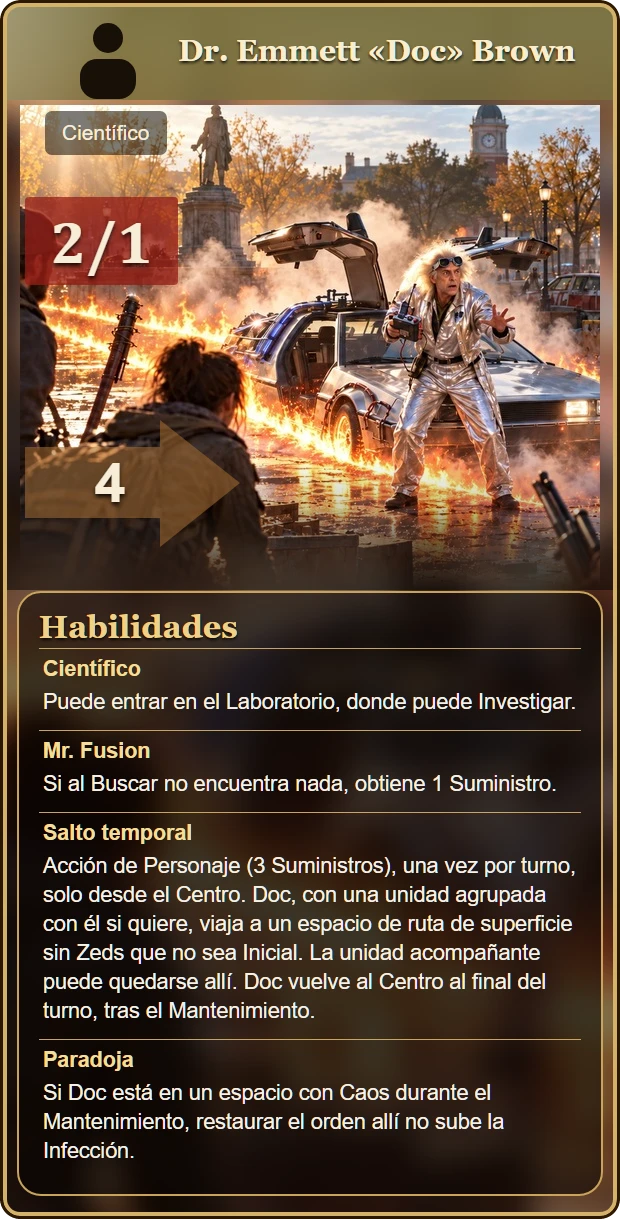
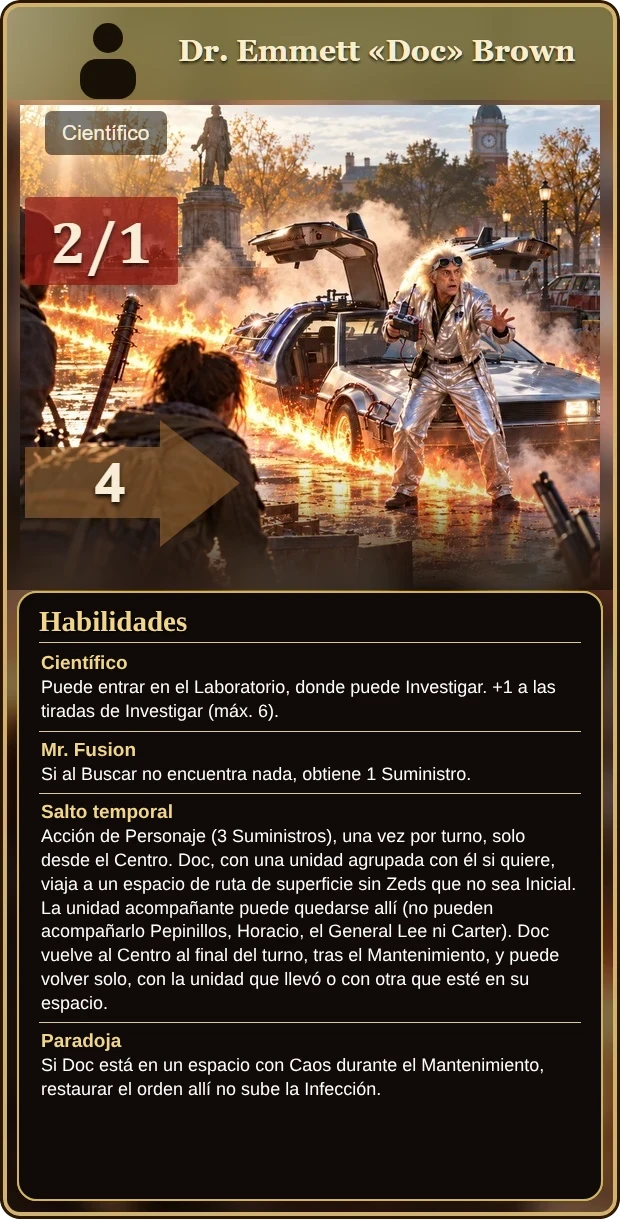
Carta de Doc Brown (arte alternativo): texto de Científico con el +1 a Investigar
Claude-Session: https://claude.ai/code/session_01KmRiLam16qxK6v4ebdfK1d

Changed region(s): [[0.0306, 0.4676, 0.9806, 0.9975], [0.7661, 0.4676, 0.9194, 0.5299], [0.95, 0.4676, 0.9806, 0.4988]]

diff --git a/sw.js b/sw.js
@@ -1,7 +1,7 @@
 /* Service worker: permite instalar la web como app y jugar sin conexión.
    Código (html/js/css): red primero, con copia local de reserva. Imágenes y audio: caché primero. */
 'use strict';
-const CACHE = 'doz3-v77';
+const CACHE = 'doz3-v78';
 const SHELL = ['./', 'index.html', 'style.css', 'manifest.webmanifest', 'icons/icon-192.png', 'icons/icon-512.png', 'assets/portada.jpg', 'assets/fondo_nueva.webp', 'assets/fondo_ranking.webp',
   'js/version.js', 'js/data.js', 'js/events.js', 'js/dest.js', 'js/evlog.js', 'js/preview.js', 'js/obituario.js', 'js/engine.js', 'js/game.js', 'js/phases.js', 'js/actions.js', 'js/cardtext.js', 'js/ui.js', 'js/anim.js',
   'js/expansions.js', 'js/expansions2.js', 'js/sfx.js', 'js/sound.js', 'js/opciones.js', 'js/voz.js', 'js/ost.js', 'assets/sonidos/letras/letras.js', 'assets/sonidos/efectos/sfx_disparo.mp3', 'assets/sonidos/efectos/sfx_disparo_largo.mp3', 'js/mapzoom.js', 'js/movil.js', 'js/seedcode.js', 'js/save.js', 'js/main.js', 'js/bot.js'];

diff --git a/js/version.js b/js/version.js
@@ -1,2 +1,2 @@
 /* Fecha y hora de la última build (hora de Madrid). Se actualiza con cada cambio publicado. */
-const BUILD_TIME = '2026-11-05 14:00';
+const BUILD_TIME = '2026-11-05 14:20';

diff --git a/CHANGELOG.md b/CHANGELOG.md
@@ -5,7 +5,7 @@ Registro de cambios por publicación (push a `main`). Lo más reciente, arriba. 
 ## 2026-11-05 14:00
 
 ### Cambios
-- **Doc Brown:** +1 a las tiradas de Investigar (máx. 6), como Profesora Agee y la Dra. Carter. La carta ilustrada todavía no lo menciona.
+- **Doc Brown:** +1 a las tiradas de Investigar (máx. 6), como Profesora Agee y la Dra. Carter. Carta de arte alternativo regenerada con el nuevo texto (`tools/generar_doc.mjs`); la carta de arte por defecto todavía no lo menciona.
 
 ## 2026-11-05 13:00
 
